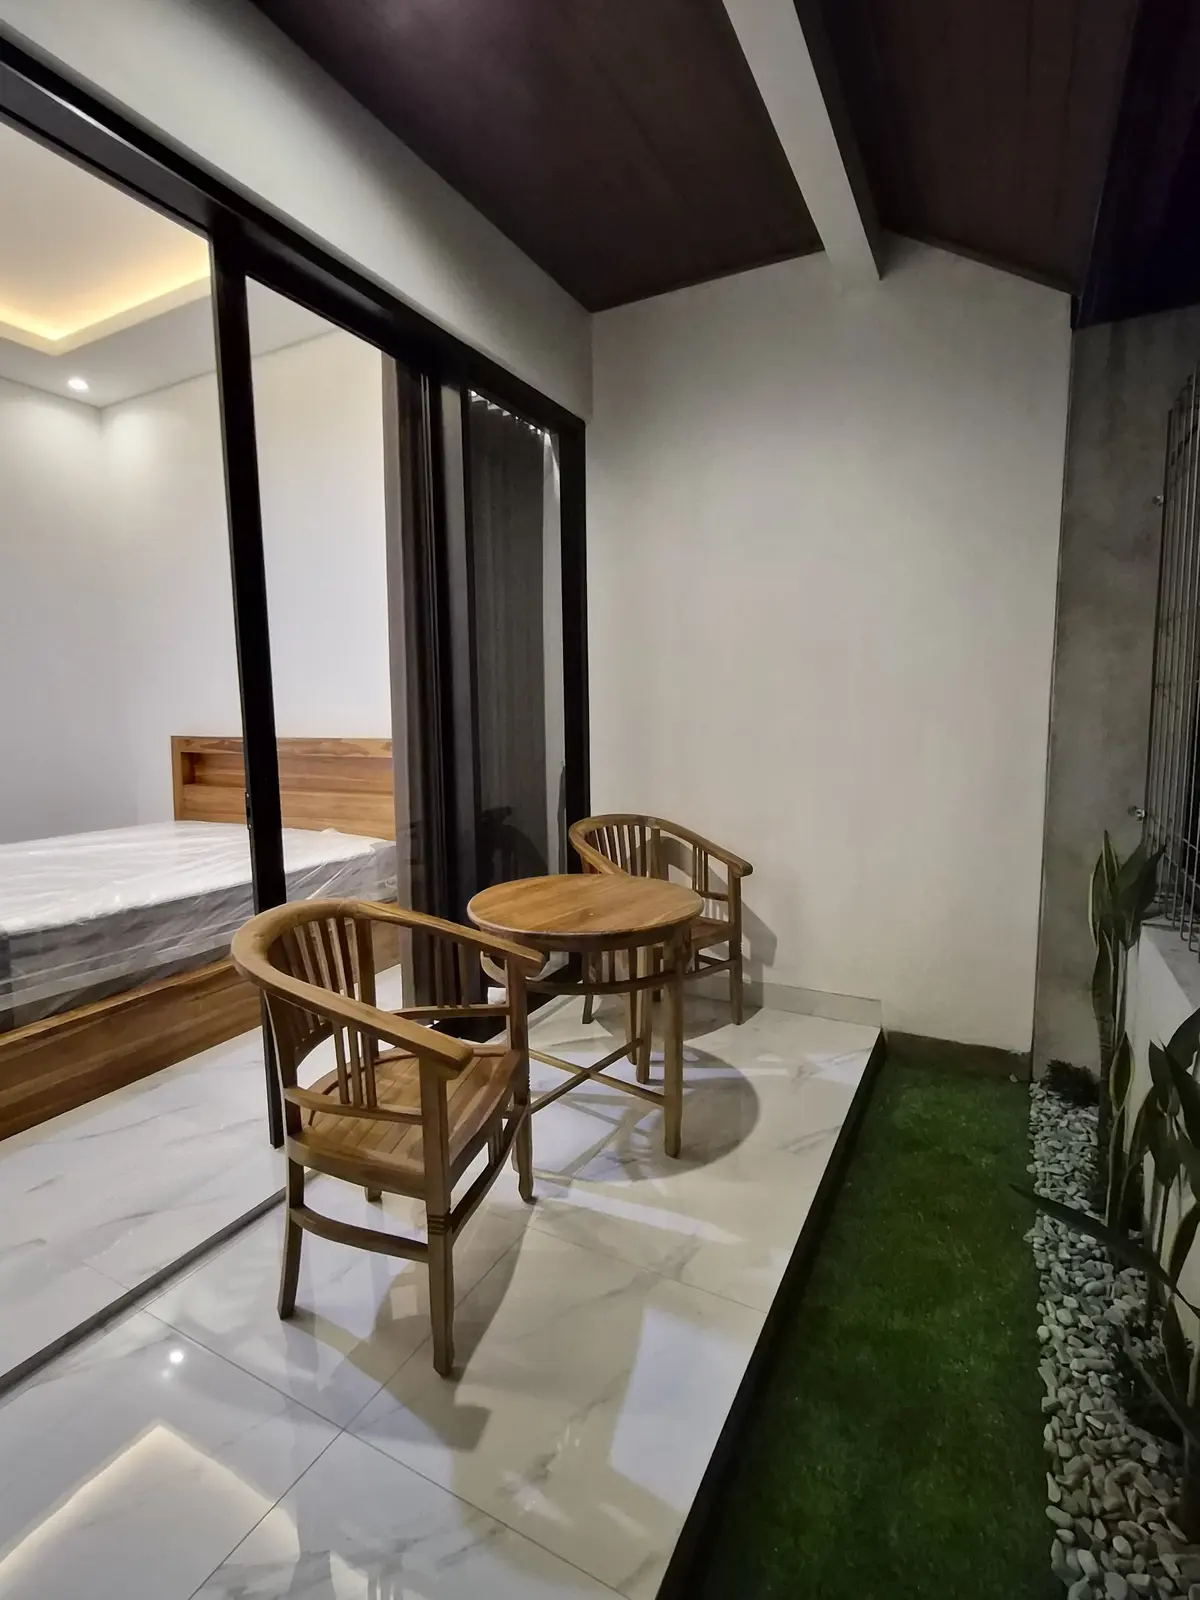
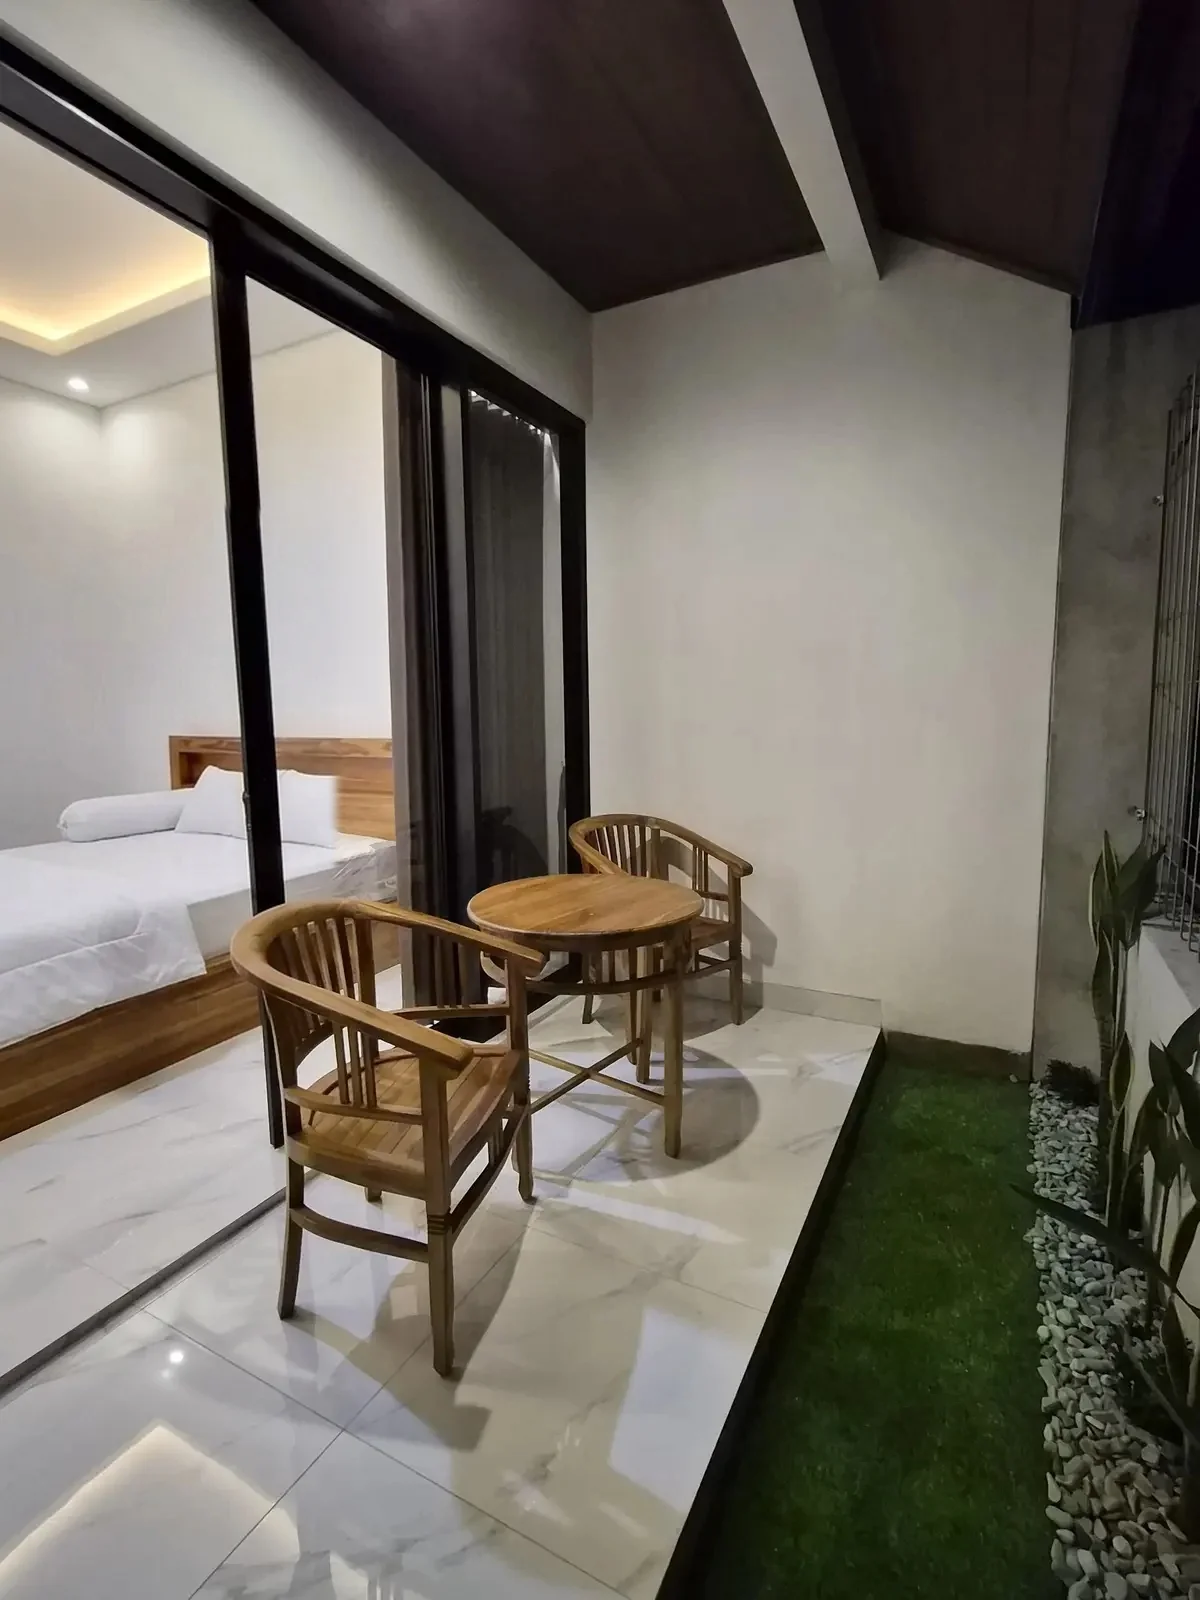
Update residence terrace photo with made-up bed
- residence-terrace-1.webp: mattress seen through the glass door now made up
  (white sheets, pillows); terrace area unchanged from the original photo
- Residence pages (EN/ID): ?v=2 cache-buster so returning visitors get the new photo

Changed region(s): [[0.0, 0.3125, 0.3083, 0.6562], [0.0925, 0.6562, 0.185, 0.6875]]

diff --git a/id/residence/index.html b/id/residence/index.html
@@ -324,7 +324,7 @@
           <img loading="lazy" decoding="async" src="../../assets/residence/residence-wardrobe-1.webp" alt="Built-in wardrobe">
           <img loading="lazy" decoding="async" src="../../assets/residence/residence-exterior-night-1.webp" alt="Residence exterior at night">
           <img loading="lazy" decoding="async" src="../../assets/residence/residence-bathroom-1.webp" alt="Residence ensuite bathroom">
-          <img loading="lazy" decoding="async" src="../../assets/residence/residence-terrace-1.webp" alt="Residence private terrace">
+          <img loading="lazy" decoding="async" src="../../assets/residence/residence-terrace-1.webp?v=2" alt="Residence private terrace">
         </div>
       </div>
     </div>

diff --git a/residence/index.html b/residence/index.html
@@ -321,7 +321,7 @@
           <img loading="lazy" decoding="async" src="../assets/residence/residence-wardrobe-1.webp" alt="Built-in wardrobe">
           <img loading="lazy" decoding="async" src="../assets/residence/residence-exterior-night-1.webp" alt="Residence exterior at night">
           <img loading="lazy" decoding="async" src="../assets/residence/residence-bathroom-1.webp" alt="Residence ensuite bathroom">
-          <img loading="lazy" decoding="async" src="../assets/residence/residence-terrace-1.webp" alt="Residence private terrace">
+          <img loading="lazy" decoding="async" src="../assets/residence/residence-terrace-1.webp?v=2" alt="Residence private terrace">
         </div>
       </div>
     </div>
